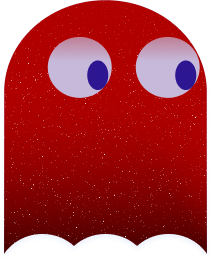
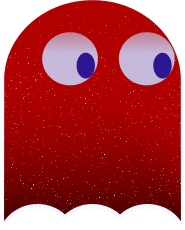
Finish homepage scaling.

diff --git a/src/pages/Index.vue b/src/pages/Index.vue
@@ -6,7 +6,7 @@
     </div>
     <div class="row">
       <div class="featured-product-layout">
-      <g-image style="margin-left: 94px;" src="~/assets/ghosts/blinky.png" />
+      <g-image class="featured-product-image-layout" src="~/assets/ghosts/blinky.png" />
       </div>
       <button class="cta-button">See our products</button>
     </div>
@@ -33,8 +33,8 @@ export default {
   flex-direction: column;
   justify-content: flex-start;
   height: 242px;
-  margin: 0 auto 95px auto;
-  width: 76%;
+  margin: 0 auto 72px auto;
+  width: 75%;
 }
 
 .bubble::after {
@@ -47,8 +47,9 @@ export default {
   margin-top: 49px;
 }
 
-.featured-product-layout {
-  flex: 1;
+
+.featured-product-image-layout {
+  margin-left: 172px;
 }
 
 .row {

diff --git a/src/_theme.scss b/src/_theme.scss
@@ -52,6 +52,7 @@ text-decoration: none;
     border-radius: 25px;
     box-shadow: 0px 4px 4px rgba(0, 0, 0, 0.25);
     /* layout */
+    margin-bottom: 40px;
     height: 73px;
     width: 331px;
     /* inner text style */
